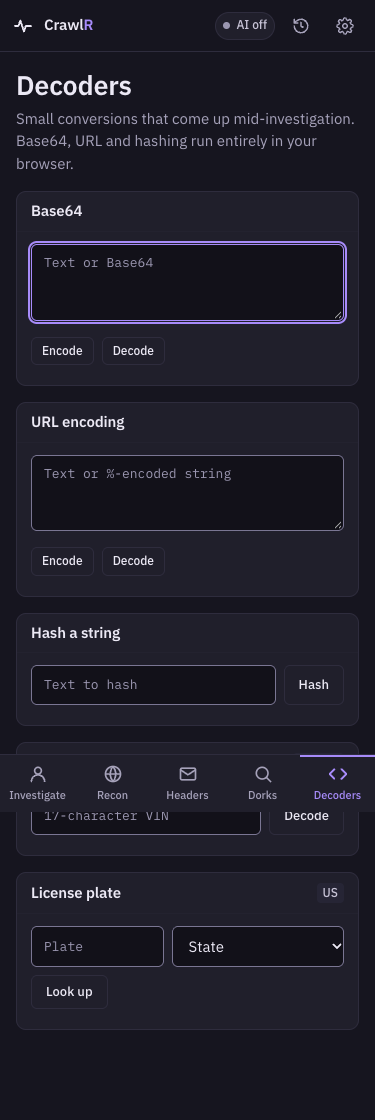
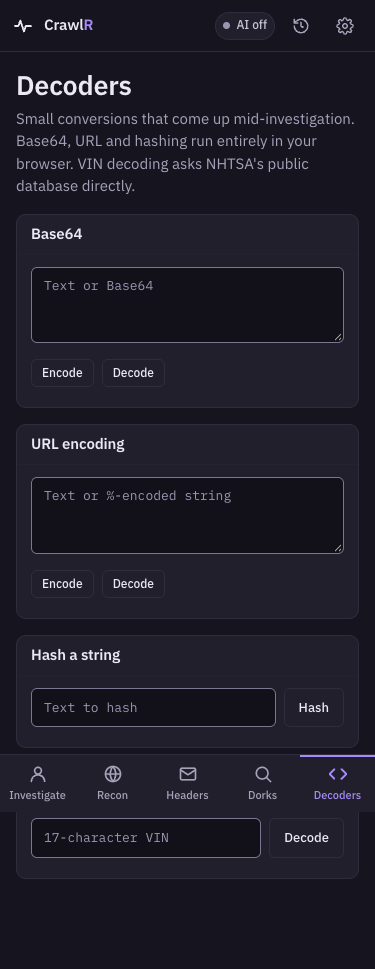
chore: settle open decisions
- API docs (/docs, /openapi.json) are off unless ENABLE_API_DOCS is set.
- The plate lookup is removed. It relied on an undocumented third-party
  endpoint. The VIN decoder, which uses NHTSA's public API, stays.
- An acceptable-use statement is available from Settings at any time,
  and the first-run gate points to it.
- Long dialogs can be scrolled from the keyboard.
- The six v1-era screenshots are deleted; nothing referenced them.
- /api/health keeps HEAD support without a duplicate operation id.

diff --git a/static/v2/js/app.js b/static/v2/js/app.js
@@ -224,6 +224,11 @@ function openSettings() {
       <section>
         <h3 class="set-h">Your data</h3>
         <p class="set-p">Cases, notes and keys live in this browser's storage and nowhere else. CrawlR has no accounts. Clear saved cases from History.</p>
+      </section>
+      <section>
+        <h3 class="set-h">Responsible use</h3>
+        <p class="set-p">What CrawlR is for, what it must not be used for, and what it does and does not record.</p>
+        <button class="btn btn-sm" type="button" data-open-use>Read the acceptable-use statement</button>
       </section>`,
   });
   roving(el, "[role=radio]", (b) => b.click());
@@ -275,6 +280,20 @@ function openHistory() {
   });
 }
 
+// ---- acceptable use -----------------------------------------------------------------------
+// The same commitments as the first-run gate, in full, reachable at any time.
+const USE_HTML = `<div class="terms">
+  <p><b>CrawlR is for</b> security work on systems you own or are authorized to test, checking your own exposure, research, journalism, incident response and training exercises such as CTFs.</p>
+  <p><b>Do not use it to</b> harass, stalk, dox or locate a private individual, to scan or probe systems without permission, or to try credentials found in breaches. CrawlR never logs in to anything, never triggers a password reset and never contacts a person.</p>
+  <p><b>Passive by default.</b> Most sources ask third parties what they already know. The two active techniques (the port scan and profile scraping for Deep Dive) connect to the target's own systems, are labelled, and stay off until you turn them on.</p>
+  <p><b>Leads, not proof.</b> Results come from third parties and can be wrong or out of date. "Confirmed" means an account exists, not who owns it. "Possible" means a tool reported it and nothing verified it. A source that failed says nothing either way.</p>
+  <p><b>What is kept.</b> Your cases, notes and keys stay in this browser. The server does not write the targets you look up to its logs and has no database. AI reports are only requested when you ask, and are sent to the provider you chose.</p>
+  <p><b>Collect only what your purpose needs.</b> Public does not mean harmless: separate public facts can identify someone once combined. You are responsible for how you use what you find, under the law where you are and where the target is.</p>
+  <p>CrawlR is not a people-search service. Name and phone lookups only open links for you to search by hand.</p>
+</div>`;
+function openUse() { openModal({ title: "Acceptable use", wide: true, body: USE_HTML, actions: [{ label: "Close", primary: true, onClick: closeModal }] }); }
+document.addEventListener("click", (e) => { if (e.target.closest("[data-open-use]")) { closeDrawer({ restore: false }); openUse(); } });
+
 // ---- terms ---------------------------------------------------------------------------------
 // The gate cannot be dismissed with Escape, the backdrop or a close button: the only way
 // through is to tick the box and continue.
@@ -289,6 +308,7 @@ function termsIfNeeded() {
       <p>Results come from third parties and can be wrong. "Possible" findings are leads to check, not facts, and a confirmed account shows that a handle exists, not who owns it.</p>
       <p>Active techniques (the port scan in Recon, profile scraping for Deep Dive) connect to the target's own systems and may be logged there. They are labelled and stay off until you turn them on. Only scan hosts you own or are authorized to test.</p>
       <p>Your cases and notes stay in this browser. Don't collect more about a person than your purpose needs.</p>
+      <p>The full acceptable-use statement is always under Settings.</p>
       <label class="terms-ok"><input type="checkbox" id="termsOk"> I understand and will use CrawlR responsibly.</label>
     </div>`,
     actions: [{ label: "Continue", primary: true, disabled: true, onClick: (m) => { if (!m.querySelector("#termsOk").checked) return; store.set("crawlr_terms_v1", Date.now()); closeModal({ restore: false }); show(current || "landing"); } }],

diff --git a/static/v2/js/tools.js b/static/v2/js/tools.js
@@ -2,9 +2,6 @@
 import { $, $$, h, raw, esc, link, store, toast, post, postAi, aiAvailable, aiCost, providerName, looksLikeHeaders, fmtNum } from "./core.js";
 import { md5 } from "./md5.js";
 
-const STATES = [["AL","Alabama"],["AK","Alaska"],["AZ","Arizona"],["AR","Arkansas"],["CA","California"],["CO","Colorado"],["CT","Connecticut"],["DE","Delaware"],["DC","District of Columbia"],["FL","Florida"],["GA","Georgia"],["HI","Hawaii"],["ID","Idaho"],["IL","Illinois"],["IN","Indiana"],["IA","Iowa"],["KS","Kansas"],["KY","Kentucky"],["LA","Louisiana"],["ME","Maine"],["MD","Maryland"],["MA","Massachusetts"],["MI","Michigan"],["MN","Minnesota"],["MS","Mississippi"],["MO","Missouri"],["MT","Montana"],["NE","Nebraska"],["NV","Nevada"],["NH","New Hampshire"],["NJ","New Jersey"],["NM","New Mexico"],["NY","New York"],["NC","North Carolina"],["ND","North Dakota"],["OH","Ohio"],["OK","Oklahoma"],["OR","Oregon"],["PA","Pennsylvania"],["RI","Rhode Island"],["SC","South Carolina"],["SD","South Dakota"],["TN","Tennessee"],["TX","Texas"],["UT","Utah"],["VT","Vermont"],["VA","Virginia"],["WA","Washington"],["WV","West Virginia"],["WI","Wisconsin"],["WY","Wyoming"]];
-$("#plateState").insertAdjacentHTML("beforeend", STATES.map(([v, n]) => h`<option value="${v}">${n}</option>`).join(""));
-
 const copy = (text, btn) => navigator.clipboard?.writeText(text).then(() => { if (btn) { const t = btn.textContent; btn.textContent = "Copied"; setTimeout(() => (btn.textContent = t), 1400); } else toast("Copied"); });
 
 // =====================================================================================
@@ -193,21 +190,8 @@ $("#vinGo").addEventListener("click", async () => {
     out("#vinOut", rows.length ? `<dl class="kv">${rows.map(([k, v]) => h`<dt>${k}</dt><dd>${v}</dd>`).join("")}</dl>` : err("NHTSA has no record for that VIN."));
   } catch { out("#vinOut", err("Couldn't reach NHTSA. Try again in a moment.")); }
 });
-// plate
-$("#plateGo").addEventListener("click", async () => {
-  const plate = $("#plateIn").value.trim().toUpperCase(), state = $("#plateState").value;
-  if (!plate || !state) { out("#plateOut", err("Enter a plate and pick a state.")); return; }
-  out("#plateOut", `<p class="dec-wait">Looking up…</p>`);
-  try {
-    const d = await post("/api/vehicles/plate", { plate, state });
-    if (d.error) { out("#plateOut", err(d.error)); return; }
-    const rows = [["Year", d.year], ["Make", d.make], ["Model", d.model], ["Trim", d.trim], ["Engine", d.engine], ["VIN", d.vin]].filter(([, v]) => v);
-    out("#plateOut", rows.length ? `<dl class="kv">${rows.map(([k, v]) => h`<dt>${k}</dt><dd class="${k === "VIN" ? "mono" : ""}">${v}</dd>`).join("")}</dl>${d.vin ? `<button class="btn btn-sm mt" type="button" id="plateToVin">Decode this VIN</button>` : ""}` : err("No vehicle found for that plate."));
-    if (d.vin) $("#plateToVin").addEventListener("click", () => { $("#vinIn").value = d.vin; $("#vinGo").click(); $("#vinIn").scrollIntoView({ behavior: "smooth", block: "center" }); });
-  } catch (e) { out("#plateOut", err(e.detail || e.message)); }
-});
 // Enter submits each decoder
-[["#b64In", null], ["#urlIn", null], ["#hashIn", "#hashGo"], ["#vinIn", "#vinGo"], ["#plateIn", "#plateGo"]].forEach(([i, b]) => b && $(i).addEventListener("keydown", (e) => { if (e.key === "Enter") $(b).click(); }));
+[["#b64In", null], ["#urlIn", null], ["#hashIn", "#hashGo"], ["#vinIn", "#vinGo"]].forEach(([i, b]) => b && $(i).addEventListener("keydown", (e) => { if (e.key === "Enter") $(b).click(); }));
 
 // paste-detect on the decoders input is not needed; headers paste-detect lives in app.js
 export { looksLikeHeaders };

diff --git a/static/v2/index.html b/static/v2/index.html
@@ -304,7 +304,7 @@
 
 <!-- ============ Decoders ============ -->
 <main class="tool tool-wide" id="decoders" hidden>
-  <header class="tool-head"><h1>Decoders</h1><p class="lede">Small conversions that come up mid-investigation. Base64, URL and hashing run entirely in your browser.</p></header>
+  <header class="tool-head"><h1>Decoders</h1><p class="lede">Small conversions that come up mid-investigation. Base64, URL and hashing run entirely in your browser. VIN decoding asks NHTSA's public database directly.</p></header>
   <div class="dec-grid">
     <article class="card"><div class="card-head"><h2 class="card-title"><label for="b64In">Base64</label></h2></div><div class="card-body">
       <textarea class="textarea mono" id="b64In" rows="3" placeholder="Text or Base64" spellcheck="false"></textarea>
@@ -320,10 +320,6 @@
     <article class="card"><div class="card-head"><h2 class="card-title"><label for="vinIn">VIN</label></h2><span class="tag">NHTSA</span></div><div class="card-body">
       <div class="inline-form"><input class="input mono" id="vinIn" placeholder="17-character VIN" maxlength="17" spellcheck="false" autocomplete="off"><button class="btn" id="vinGo" type="button">Decode</button></div>
       <div id="vinOut" aria-live="polite"></div></div></article>
-    <article class="card"><div class="card-head"><h2 class="card-title">License plate</h2><span class="tag">US</span></div><div class="card-body">
-      <div class="inline-form wrap"><label class="sr-only" for="plateIn">Plate number</label><input class="input mono plate" id="plateIn" placeholder="Plate" maxlength="10" spellcheck="false" autocomplete="off">
-        <label class="sr-only" for="plateState">State</label><select class="input state" id="plateState"><option value="">State</option></select><button class="btn" id="plateGo" type="button">Look up</button></div>
-      <div id="plateOut" aria-live="polite"></div></div></article>
   </div>
 </main>
 </div>

diff --git a/static/v2/js/ui.js b/static/v2/js/ui.js
@@ -52,6 +52,9 @@ export function openModal({ title, body, actions = [], wide = false, required = 
   trapFocus(el, required ? null : closeModal);
   root().appendChild(el);
   syncInert();
+  // A long dialog scrolls inside its body. Make that region reachable from the keyboard.
+  const bodyEl = el.querySelector(".modal-body");
+  if (bodyEl.scrollHeight > bodyEl.clientHeight + 1) { bodyEl.tabIndex = 0; bodyEl.setAttribute("role", "group"); bodyEl.setAttribute("aria-label", `${title}, scrollable`); }
   (el.querySelector(focus || "input,textarea,button.btn-primary:not([disabled])") || el.querySelector(FOCUSABLE))?.focus();
   return el;
 }

diff --git a/static/v2/css/app.css b/static/v2/css/app.css
@@ -706,7 +706,6 @@ input[type=search]::-webkit-search-cancel-button, input[type=search]::-webkit-se
 .hint-inline { color: var(--ink-3); font-size: var(--fs-0); align-self: center; }
 .inline-form { display: flex; gap: 8px; }
 .inline-form.wrap { flex-wrap: wrap; }
-.inline-form .plate { flex: 1 1 120px; } .inline-form .state { flex: 1 1 160px; }
 .mini-h { font-size: var(--fs-1); font-weight: 600; color: var(--ink-3); margin-bottom: 10px; }
 .modal-p { font-size: var(--fs-1); color: var(--ink-2); }
 .modal-p.warn { color: var(--warn); } .modal-p.muted { color: var(--ink-3); }

diff --git a/main.py b/main.py
@@ -13,7 +13,7 @@ from core.logging import configure_logging, get_logger
 from middleware.observability import BodyLimitMiddleware, RequestContextMiddleware, SecurityHeadersMiddleware, client_ip
 from middleware.rate_limit import RateLimitMiddleware
 from modules.ai_provider import AIError
-from routers import recon, analyze, recon_infra, hash_lookup, email_headers, phone, vehicles
+from routers import recon, analyze, recon_infra, hash_lookup, email_headers, phone
 
 configure_logging()
 log = get_logger("crawlr")
@@ -30,7 +30,16 @@ async def lifespan(_app: FastAPI):
     log.info("crawlr stopping")
 
 
-app = FastAPI(title="CrawlR", version=APP_VERSION, lifespan=lifespan)
+# The generated API docs are for development. In production they only advertise the
+# endpoint list, so they are off unless ENABLE_API_DOCS is set.
+API_DOCS = os.getenv("ENABLE_API_DOCS", "").strip().lower() in ("1", "true", "yes", "on")
+
+app = FastAPI(
+    title="CrawlR", version=APP_VERSION, lifespan=lifespan,
+    docs_url="/docs" if API_DOCS else None,
+    redoc_url=None,
+    openapi_url="/openapi.json" if API_DOCS else None,
+)
 
 # Middleware runs in reverse registration order on the way in, so the request context
 # (request id + access log) is registered last to wrap everything, and gzip sits just
@@ -94,7 +103,6 @@ app.include_router(recon_infra.router, prefix="/api/infra", tags=["infra"])
 app.include_router(hash_lookup.router, prefix="/api/hash", tags=["hash"])
 app.include_router(email_headers.router, prefix="/api/email", tags=["email"])
 app.include_router(phone.router, prefix="/api/phone", tags=["phone"])
-app.include_router(vehicles.router, prefix="/api/vehicles", tags=["vehicles"])
 
 
 # HEAD is allowed on pages so uptime monitors, link checkers and crawlers get a 200.
@@ -117,7 +125,7 @@ def classic():
 
 @app.api_route("/robots.txt", methods=["GET", "HEAD"], include_in_schema=False)
 def robots():
-    return PlainTextResponse(f"User-agent: *\nAllow: /\nDisallow: /api/\nDisallow: /docs\nDisallow: /openapi.json\n\nSitemap: {SITE_URL}/sitemap.xml\n")
+    return PlainTextResponse(f"User-agent: *\nAllow: /\nDisallow: /api/\n\nSitemap: {SITE_URL}/sitemap.xml\n")
 
 
 @app.api_route("/sitemap.xml", methods=["GET", "HEAD"], include_in_schema=False)
@@ -142,7 +150,13 @@ def quota(request: Request):
     return quota_status(client_ip(request))
 
 
-@app.api_route("/api/health", methods=["GET", "HEAD"], tags=["meta"])
+@app.get("/api/health", tags=["meta"])
 def health():
     """Liveness probe for Railway and uptime monitors."""
     return {"status": "ok", "service": "crawlr", "version": APP_VERSION}
+
+
+@app.head("/api/health", include_in_schema=False)
+def health_head():
+    """HEAD for monitors that do not send GET. Kept out of the schema so the operation id stays unique."""
+    return Response()

diff --git a/tests/test_platform.py b/tests/test_platform.py
@@ -111,3 +111,33 @@ def test_ci_compiles_core():
     assert "compileall -q main.py routers modules middleware core" in ci
     for t in ("detect", "contrast", "brief"):
         assert f"node tests/js/{t}.test.mjs" in ci
+
+
+def test_api_docs_are_off_by_default(c):
+    assert c.get("/docs").status_code == 404
+    assert c.get("/openapi.json").status_code == 404
+    assert c.get("/redoc").status_code == 404
+    assert "/docs" not in c.get("/robots.txt").text      # nothing to hide, so nothing to list
+
+
+def test_api_docs_can_be_switched_on(monkeypatch):
+    import importlib
+    import main
+    monkeypatch.setenv("ENABLE_API_DOCS", "true")
+    try:
+        fresh = importlib.reload(main)
+        with TestClient(fresh.app) as client:
+            assert client.get("/docs").status_code == 200
+            assert "paths" in client.get("/openapi.json").json()
+    finally:
+        monkeypatch.delenv("ENABLE_API_DOCS")
+        importlib.reload(main)
+
+
+def test_plate_lookup_is_gone(c):
+    assert c.post("/api/vehicles/plate", json={"plate": "ABC123", "state": "WA"}).status_code == 404
+    html = c.get("/").text
+    assert "plateIn" not in html and "License plate" not in html
+    assert "vinIn" in html                                  # the VIN decoder (official NHTSA API) stays
+    fp = asset_fingerprint()
+    assert "kbb" not in c.get(f"/assets/{fp}/js/tools.js").text.lower()

diff --git a/tests/test_rate_limit.py b/tests/test_rate_limit.py
@@ -33,7 +33,7 @@ def test_prefix_needs_a_path_separator():
 
 def test_previously_uncovered_endpoints_are_limited():
     for path in ("/api/recon/holehe", "/api/recon/scrape-profiles", "/api/recon/enrich", "/api/infra/portscan",
-                 "/api/infra/dns", "/api/email/analyze", "/api/hash/hash", "/api/vehicles/plate", "/api/phone/lookup"):
+                 "/api/infra/dns", "/api/email/analyze", "/api/hash/hash", "/api/phone/lookup"):
         assert match_limit(path) is not None, path
 
 
@@ -55,12 +55,12 @@ def test_rejects_over_the_limit_and_recovers_after_the_window():
 
 def test_rejected_requests_do_not_extend_the_block():
     mw = _mw()
-    limit, window = RATE_LIMITS["/api/vehicles"]
+    limit, window = RATE_LIMITS["/api/phone"]
     for i in range(limit):
-        mw.check("1.1.1.1", "/api/vehicles/plate", now=0.0)
+        mw.check("1.1.1.1", "/api/phone/lookup", now=0.0)
     for i in range(50):  # hammering while blocked must not push the unblock time out
-        assert mw.check("1.1.1.1", "/api/vehicles/plate", now=1.0 + i * 0.1) is not None
-    assert mw.check("1.1.1.1", "/api/vehicles/plate", now=window + 1.0) is None
+        assert mw.check("1.1.1.1", "/api/phone/lookup", now=1.0 + i * 0.1) is not None
+    assert mw.check("1.1.1.1", "/api/phone/lookup", now=window + 1.0) is None
 
 
 def test_key_table_is_bounded(monkeypatch):

diff --git a/core/validate.py b/core/validate.py
@@ -16,8 +16,6 @@ from fastapi import HTTPException
 USERNAME_RE = re.compile(r"^[A-Za-z0-9._-]{1,64}$")
 EMAIL_RE = re.compile(r"^[A-Za-z0-9._%+-]{1,64}@[A-Za-z0-9](?:[A-Za-z0-9-]{0,61}[A-Za-z0-9])?(?:\.[A-Za-z0-9](?:[A-Za-z0-9-]{0,61}[A-Za-z0-9])?)*\.[A-Za-z]{2,63}$")
 HOSTNAME_RE = re.compile(r"^(?=.{1,253}$)(?:[A-Za-z0-9_](?:[A-Za-z0-9_-]{0,61}[A-Za-z0-9])?\.)+[A-Za-z]{2,63}$")
-PLATE_RE = re.compile(r"^[A-Z0-9 -]{1,10}$")
-US_STATE_RE = re.compile(r"^[A-Z]{2}$")
 
 # Second-level public suffixes that are common enough to matter for "same site" checks.
 # This is deliberately small; it only has to stop a.co.uk and b.co.uk from looking related.
@@ -84,20 +82,6 @@ def http_url(value: str) -> str:
     if parts.username or parts.password:
         raise _bad("URLs with credentials are not supported.")
     host(parts.hostname or "")
-    return v
-
-
-def plate(value: str) -> str:
-    v = (value or "").strip().upper()
-    if not PLATE_RE.fullmatch(v):
-        raise _bad("Enter a plate of up to 10 letters and digits.")
-    return v
-
-
-def us_state(value: str) -> str:
-    v = (value or "").strip().upper()
-    if not US_STATE_RE.fullmatch(v):
-        raise _bad("Pick a two-letter state code.")
     return v
 
 

diff --git a/tests/test_validate.py b/tests/test_validate.py
@@ -140,8 +140,6 @@ def test_missing_tool_binary_is_reported_not_a_500(monkeypatch):
     ("/api/infra/dns", {"domain": "8.8.8.8"}),
     ("/api/infra/portscan", {"domain": "a.com; id"}),
     ("/api/infra/redirects", {"target": "https://user:pw@example.com"}),
-    ("/api/vehicles/plate", {"plate": "ABC123", "state": "W1"}),
-    ("/api/vehicles/plate", {"plate": "../x", "state": "WA"}),
 ])
 def test_routes_reject_bad_input_with_400(path, body):
     with TestClient(app) as c:

diff --git a/middleware/rate_limit.py b/middleware/rate_limit.py
@@ -44,7 +44,6 @@ RATE_LIMITS = {
     "/api/email": (30, 60),
     "/api/hash": (30, 60),
     "/api/phone": (15, 60),
-    "/api/vehicles": (10, 60),
 }
 MAX_KEYS = 20_000
 SWEEP_EVERY = 500      # requests between sweeps

diff --git a/docs/ARCHITECTURE.md b/docs/ARCHITECTURE.md
@@ -36,7 +36,7 @@ FastAPI (main.py)
 | `/assets/<fingerprint>/*` | `static/v2/*`, cached for a year. The fingerprint is a hash of every UI file, so any change gives every asset a new URL |
 | `/static/*` | Static files at stable URLs, always revalidated |
 | `/robots.txt`, `/sitemap.xml` | Generated from `SITE_URL` |
-| `/docs`, `/openapi.json` | FastAPI's generated API docs |
+| `/docs`, `/openapi.json` | FastAPI's generated API docs. Off unless `ENABLE_API_DOCS=true` |
 
 ### API
 
@@ -48,7 +48,6 @@ FastAPI (main.py)
 | `/api/hash` | `routers/hash_lookup.py` | hash | MalwareBazaar, CIRCL, OTX, ThreatFox |
 | `/api/email` | `routers/email_headers.py` | analyze | Raw header parsing, SPF/DKIM/DMARC, hop analysis, IP geo |
 | `/api/phone` | `routers/phone.py` | lookup | Optional `X-Numlookup-Key` |
-| `/api/vehicles` | `routers/vehicles.py` | plate | Plate to VIN through an undocumented third-party endpoint. Flagged for a keep or remove decision |
 | `/api` | `main.py` | quota, health | Free-AI quota for the caller, liveness |
 
 ## Backend modules
@@ -122,7 +121,7 @@ Three ways to get a written report, none automatic:
 | `brief.js` | "At a glance": the rules-based written brief for Investigate and Recon. No model |
 | `report.js` | Investigation report: dossier card plus one scrolling report |
 | `ai.js` | AI response normalization, the markdown renderer used by every report, and the AI panel's start state (one-click analysis, copy prompt, paste reply) |
-| `tools.js` | Headers analyzer, dork builder, decoders (Base64, URL, hash, VIN, plate) |
+| `tools.js` | Headers analyzer, dork builder, decoders (Base64, URL, hash, VIN) |
 | `md5.js` | MD5 for the hash decoder and Gravatar |
 
 Design tokens and UI rules: `static/v2/DESIGN.md`.
